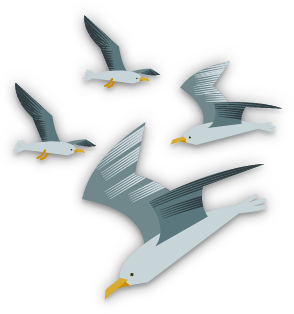
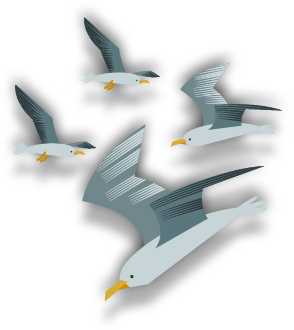
Changes to game content, increased shadow to animals, changed content drawers in map and alternatives, and change to content in alternative

Changed region(s): [[0.0306, 0.0287, 0.9796, 0.9459]]

diff --git a/src/pages/game/game.ts b/src/pages/game/game.ts
@@ -87,8 +87,8 @@ export class GamePage {
       const alert = self
         .alertCtrl
         .create({
-          title: 'Recycle!',
-          subTitle: 'Drag each plastic element to the correct bin',
+          title: 'Learn how to recycle!',
+          subTitle: 'Drag each plastic item to the correct bin. How many can you match correctly?',
           buttons: [
             {
               text: 'Start',
@@ -251,11 +251,25 @@ export class GamePage {
       self.currentUser.totalScore = self.gameScore;
       self.auth.updateUser(self.currentUser);
 
+        let message = "";
+        let title = "";
+        let subTitle = "";
+        if(self.gameScore>=0&&self.gameScore<10){
+            title = "Not bad! But you can do much better.";
+            subTitle = "You've got <b>" + self.gameScore + "</b> points.";
+            message = " You've matched <b>" + self.gameScore + "</b> items correctly.";
+        }else if(self.gameScore >=10 && self.gameScore < 20){
+            title = "Well done!";
+            subTitle = "You've got <b>" + self.gameScore + "</b> points.";
+            message = "You've matched <b>" + self.gameScore + "</b> items correctly.";
+        }
+
       const prompt = self
         .alertCtrl
         .create({
-          title: 'Game Over',
-          message: "Your score: " + self.gameScore,
+          title: title,
+          message: message,
+          subTitle: subTitle,
           buttons: [
             {
               text: 'Play again',

diff --git a/src/components/components.module.ts b/src/components/components.module.ts
@@ -6,17 +6,20 @@ import { MapInfoComponent } from './map-modal/map-modal';
 import { TagsModalComponent } from './tags-modal/tags-modal';
 import { EventModalComponent } from './event-modal/event-modal';
 import { SpeciesModalComponent } from './species-modal/species-modal';
+import { GameInfoPageComponent } from './game-info-page/game-info-page';
 @NgModule({declarations: [ContentDrawerComponent,
     TopicQuizComponent,
     QuizResultComponent,
     MapInfoComponent,
     TagsModalComponent,
     EventModalComponent,
-    SpeciesModalComponent], imports: [], exports: [ContentDrawerComponent,
+    SpeciesModalComponent,
+    GameInfoPageComponent], imports: [], exports: [ContentDrawerComponent,
     TopicQuizComponent,
     QuizResultComponent,
     MapInfoComponent,
     TagsModalComponent,
     EventModalComponent,
-    SpeciesModalComponent]})
+    SpeciesModalComponent,
+    GameInfoPageComponent]})
 export class ComponentsModule {}

diff --git a/src/components/content-drawer/content-drawer.ts b/src/components/content-drawer/content-drawer.ts
@@ -19,7 +19,7 @@ export class ContentDrawerComponent {
   
   ngAfterViewInit() {
     this.renderer.setElementClass(this.element.nativeElement, "map-drawer", true);
-    document.getElementsByClassName("map-drawer")[0].setAttribute("data-content", "Scroll up to see legend");
+    document.getElementsByClassName("map-drawer")[0].setAttribute("data-content", "Pull up to see legend");
 
     if(this.options.handleHeight){
       this.handleHeight = this.options.handleHeight;
@@ -64,7 +64,7 @@ export class ContentDrawerComponent {
       topDiff >= bottomDiff ? bounceToBottom = true : bounceToTop = true;
      
       document.getElementsByClassName("map-drawer")[0].setAttribute("data-content", 
-      topDiff >= bottomDiff ? "Scroll up" :"Scroll down");
+      topDiff >= bottomDiff ? "Pull up" :"Pull down");
     }
  
     if((newTop < this.thresholdTop && ev.additionalEvent === "panup") || bounceToTop){

diff --git a/src/pages/topic-three/topic-three.html b/src/pages/topic-three/topic-three.html
@@ -21,7 +21,7 @@
         <ion-slide class="background-species">
             <div class="container-species">
                 <h1 class="slide-title-main">Species affected</h1>
-                <p>Tap on an animal to learn more</p>
+                <p> <b>Tap</b> on an animal to learn more</p>
                 <!--<h1 class="slide-title2-main">Species</h1>-->
                 <div class="seagull" on-tap="onTap($event, 'Seagull')">
                     <img src="assets/imgs/specie-birds.png">

diff --git a/src/pages/alternatives/alternatives.html b/src/pages/alternatives/alternatives.html
@@ -47,7 +47,7 @@
 
     <div class="main-content" text-center>
         <div class="drawer">
-            <p class="scroll-content" color="secondary">Scroll</p>
+            <p class="scroll-content" color="secondary">Pull</p>
             <div class="arrawDiv" (click)="arrawDivClick">
                 <ion-icon name="ios-arrow-down"></ion-icon>
             </div>
